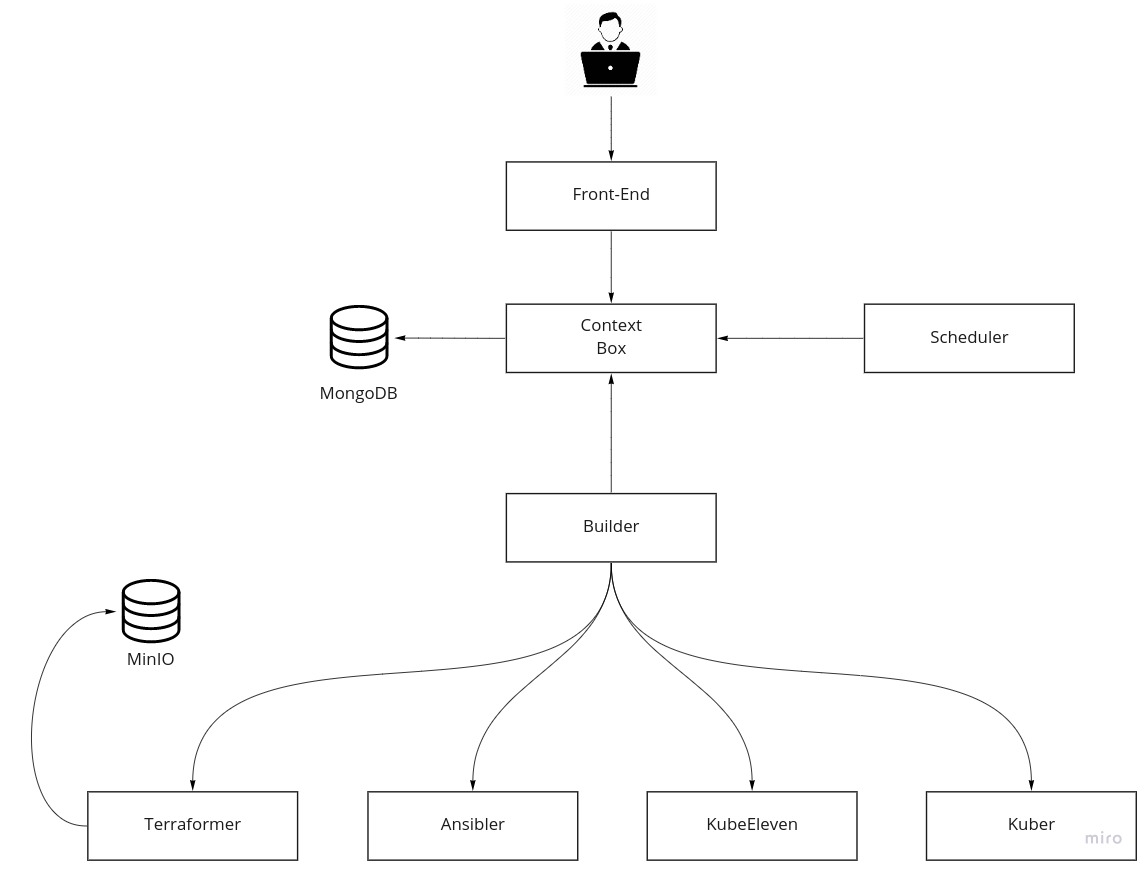
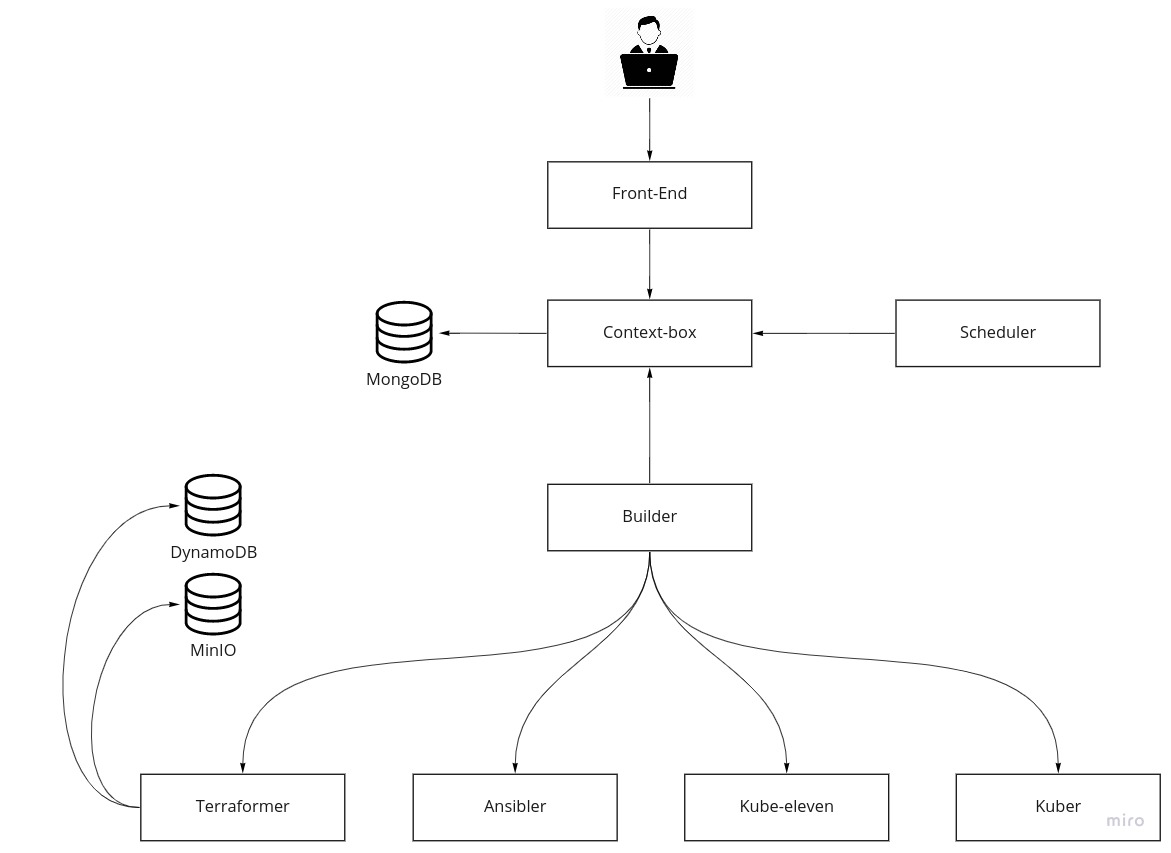
Clean up claudie workflow docs

diff --git a/docs/claudie-workflow/claudie-workflow.md b/docs/claudie-workflow/claudie-workflow.md
@@ -1,8 +1,11 @@
 # Claudie
-### A single platform for multiple clouds
+
+## A single platform for multiple clouds
+
 ![claudie schema](claudie-diagram.jpg)
 
 ### Microservices
+
 - [Context-box](https://github.com/Berops/claudie/tree/master/services/context-box)
 - [Scheduler](https://github.com/Berops/claudie/tree/master/services/scheduler)
 - [Builder](https://github.com/Berops/claudie/tree/master/services/builder)
@@ -13,10 +16,13 @@
 - [Frontend](https://github.com/Berops/claudie/tree/master/services/frontend)
 
 ### Data stores
+
 - [MongoDB](https://github.com/Berops/claudie/tree/master/manifests/claudie/mongo)
 - [Minio](https://github.com/Berops/claudie/tree/master/manifests/claudie/minio)
+- [DynamoDB](https://aws.amazon.com/dynamodb/)
 
 ### Tools used
+
 - [Terraform](https://github.com/hashicorp/terraform)
 - [Ansible](https://github.com/ansible/ansible)
 - [KubeOne](https://github.com/kubermatic/kubeone)
@@ -26,11 +32,12 @@
 - [K8s-sidecar](https://github.com/kiwigrid/k8s-sidecar)
 - [gRPC](https://grpc.io/)
 
-
 ## Context-box
+
 Context box is Claudie's "control unit". It holds pending configs, which need to be processed, periodically checks for new/changed configs and receives new configs from `frontend`.
 
 ### API
+
 ```go
   // Saves the config parsed by Frontend.
   rpc SaveConfigFrontEnd(SaveConfigRequest) returns (SaveConfigResponse);
@@ -54,7 +61,9 @@ Context box is Claudie's "control unit". It holds pending configs, which need to
   // Deletes the config from the database.
   rpc DeleteConfigFromDB(DeleteConfigRequest) returns (DeleteConfigResponse);
 ```
+
 ### Flow
+
 - Receives a `config` from Frontend, calculates its `msChecksum` and saves it to the database
 - Periodically checks for `config` changes and pushes the `config` to the `schedulerQueue` if `msChecksum` != `dsChecksum`
 - Periodically checks for `config` changes and pushes the `config` to the `builderQueue` if `dsChecksum` != `csChecksum`
@@ -62,48 +71,54 @@ Context box is Claudie's "control unit". It holds pending configs, which need to
 - Receives a `config` with the `currentState` from Builder and saves it to the database
 
 ### Variables used
+
 | variable     | meaning                |
 | ------------ | ---------------------- |
 | `msChecksum` | manifest checksum      |
 | `dsChecksum` | desired state checksum |
 | `csChecksum` | current state checksum |
 
-
 ## Scheduler
+
 Scheduler brings the infrastructure to a desired the state based on the manifest contained in the config that is received from Context-box.
 
 Scheduler also monitors the health of current infrastructure and manages any operations based on actual health state (e.g. replacement of broken nodes, etc. *[work in progress]*).
 
 ### API
-```
+
+```sh
 This service is a gRPC client, thus it does not provide any API
 ```
 
 ### Flow
+
 - Periodically pulls `config` from Context-Box's `schedulerQueue`
 - Creates `desiredState` with `dsChecksum` based on the `config`
 - Sends the `config` file back to Context-box
 
-
 ## Builder
+
 Builder aligns the current state of the infrastructure with the desired state. It calls methods on `terraformer`, `ansibler`, `kube-eleven` and `kuber` in order to manage the infrastructure. It follows that Builder also takes care of deleting nodes from a kubernetes cluster by finding differences between `desiredState` and `currentState`.
 
 ### API
-```
+
+```sh
 This service is a gRPC client, thus it does not provide any API
 ```
 
 ### Flow
+
 - Periodically polls Context-Box's `builderQueue` for changes in `config`, pulls it when changed
 - Calls Terraformer, Ansibler, Kube-eleven and Kuber
 - Creates `currentState`
 - Sends updated `config` with the `currentState` to Context-box
 
-
 ## Terraformer
+
 Terraformer creates or destroys infrastructure (specified in the desired state) via Terraform calls.
 
 ### API
+
 ```go
   // Builds the infrastructure based on the provided desired state (includes addition/deletion of *stuff*).
   rpc BuildInfrastructure(BuildInfrastructureRequest) returns (BuildInfrastructureResponse);
@@ -112,19 +127,22 @@ Terraformer creates or destroys infrastructure (specified in the desired state) 
 ```
 
 ### Flow
+
 - Receives a `config` from Builder
 - Uses Terraform to create infrastructure based on the `desiredState`
 - Updates the `currentState` in the `config`
 - Upon receiving a deletion request, Terraformer destroys the infrastructure based on the current state
 
-
 ## Ansibler
+
 Ansibler uses Ansible to:
-  - set up Wireguard VPN between the nodes
-  - set up nginx load balancer
-  - install dependencies for nodes in a kubernetes cluster
+
+- set up Wireguard VPN between the nodes
+- set up nginx load balancer
+- install dependencies for nodes in a kubernetes cluster
 
 ### API
+
 ```go
   // InstallNodeRequirements installs any requirements there are on all of the nodes.
   rpc InstallNodeRequirements(InstallRequest) returns (InstallResponse);
@@ -138,6 +156,7 @@ Ansibler uses Ansible to:
 ```
 
 ### Flow
+
 - Receives a `configToDelete` from Builder for `TeardownLoadBalancers()`
   - Finds the new ApiEndpoint among the control nodes of the k8s-cluster.
   - Sets up new certs for the endpoint to be reachable
@@ -145,38 +164,41 @@ Ansibler uses Ansible to:
   - Sets up ansible *inventory*, and installs the Wireguard full mesh VPN using a playbook
   - Updates the `currentState` in a `config`
 - Receives a `config` from Builder for `InstallNodeRequirements()`
-  - Sets up ansible *inventory*, and installs any prerequisities, as per individual nodes' requirements
+  - Sets up ansible *inventory*, and installs any prerequisites, as per individual nodes' requirements
   - Updates the `currentState` in a `config`
 - Receives a `config` from Builder for `SetUpLoadbalancers()`
   - Sets up the ansible inventory, and installs nginx load balancers
   - Creates and verifies the DNS configuration for the load balancers
 
-
 ## Kube-eleven
+
 Kube-eleven uses [KubeOne](https://github.com/kubermatic/kubeone) to set up kubernetes clusters.
 After cluster creation, it assures the cluster stays healthy and keeps running smoothly.
 
 ### API
+
 ```go
   // BuildCluster builds the kubernetes clusters specified in the provided config.
   rpc BuildCluster(BuildClusterRequest) returns (BuildClusterResponse);
 ```
 
 ### Flow
+
 - Receives a `config` object from Builder
 - Generates KubeOne manifest based on the `desiredState`
 - Uses KubeOne to provision a kubernetes cluster
 - Updates the `currentState` in the `config`
 
-
 ## Kuber
+
 Kuber manipulates the cluster resources using `kubectl`.
 
 ### API
+
 ```go
-  // StoreClusterMetatada creates a secret, which holds the private key and a list of public IP addresses of the cluster supplied.
+  // StoreClusterMetadata creates a secret, which holds the private key and a list of public IP addresses of the cluster supplied.
   rpc StoreClusterMetadata(StoreClusterMetadataRequest) returns (StoreClusterMetadataResponse);
-  // DeleteClusterMetatada deletes the secret holding the private key and public IP addresses of the cluster supplied.
+  // DeleteClusterMetadata deletes the secret holding the private key and public IP addresses of the cluster supplied.
   rpc DeleteClusterMetadata(DeleteClusterMetadataRequest) returns (DeleteClusterMetadataResponse);
   // SetUpStorage installs Longhorn into the cluster.
   rpc SetUpStorage(SetUpStorageRequest) returns (SetUpStorageResponse); 
@@ -189,24 +211,27 @@ Kuber manipulates the cluster resources using `kubectl`.
 ```
 
 ### Flow
+
 - Receives a `config` from Builder for `SetUpStorage()`
 - Applies the `longhorn` deployment
 - Receives a `config` from Builder for `StoreKubeconfig()`
 - Creates a kubernetes secret that holds the kubeconfig of the Claudie-created cluster
 - Upon infrastructure deletion request, Kuber deletes the kubeconfig secret of the cluster being deleted
 
-
 ## Frontend
+
 Frontend is a layer between the user and Claudie.
 New manifests are added as secrets into the kubernetes cluster where `k8s-sidecar` saves them into Frontend's file system
 and notifies the Frontend service via a HTTP request that the new manifests are now available.
 
 ### API
-```
+
+```sh
 This service is a gRPC client, thus it does not provide any API
 ```
 
 ### Flow
+
 - User applies a new secret holding a manifest
 - `k8s-sidecar` detects it and saves it to Frontend's file system
 - `k8s-sidecar` notifies Frontend via a HTTP request that changes have been made
